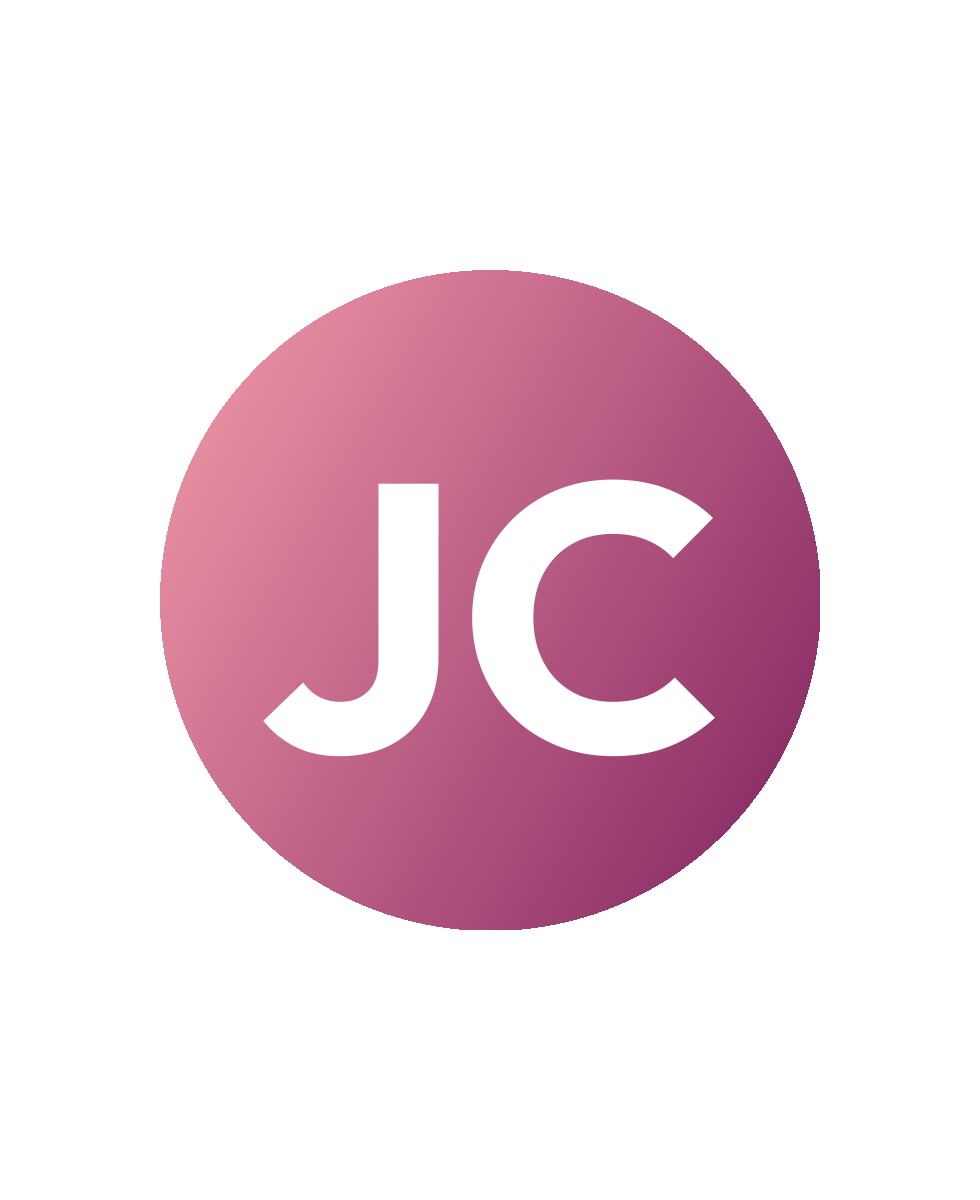
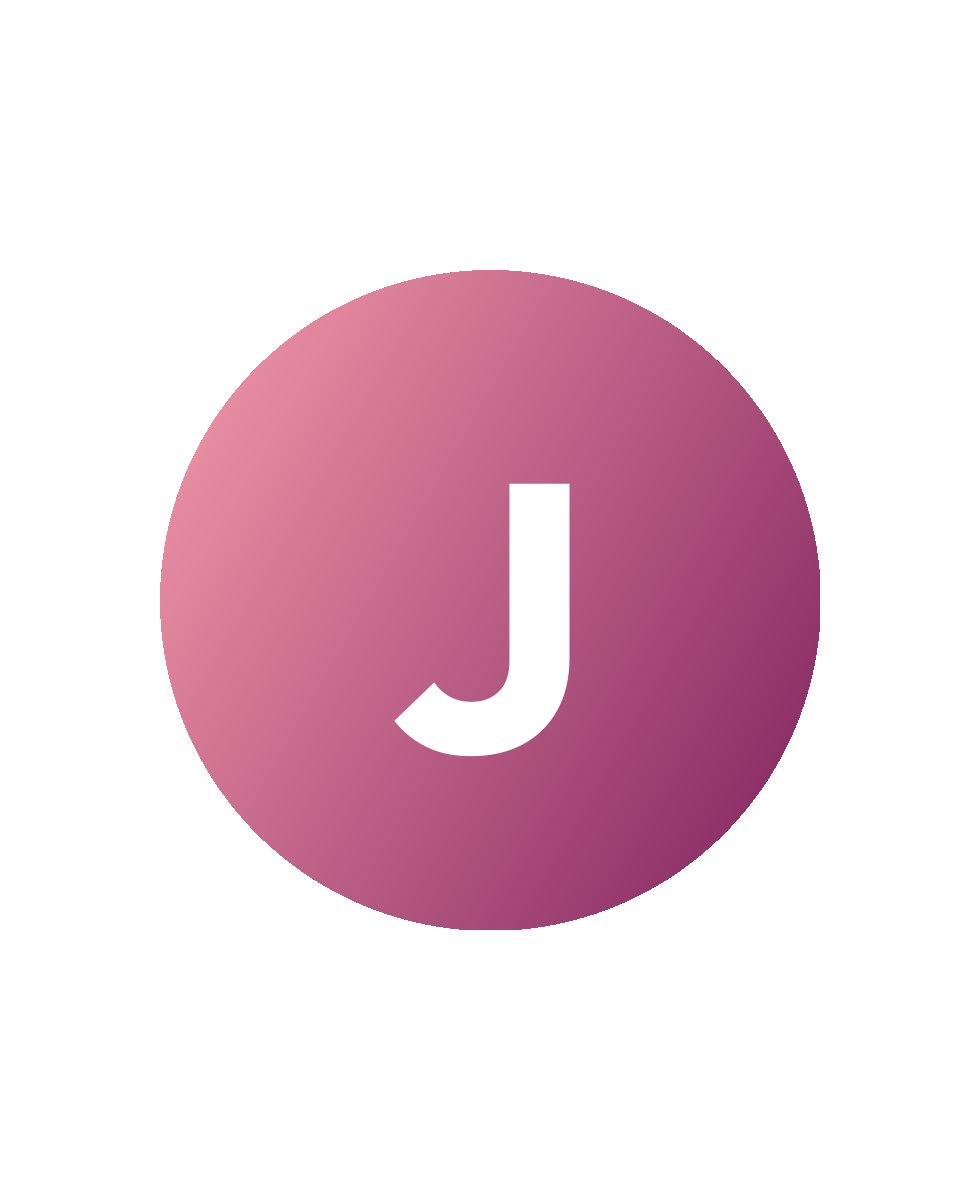
feat: refine team and footer and place video on about page

Changed region(s): [[0.2755, 0.4008, 0.7347, 0.6475], [0.5204, 0.4008, 0.7347, 0.4625]]

diff --git a/src/components/footer.html b/src/components/footer.html
@@ -7,6 +7,17 @@
         <p class="text-sm leading-relaxed text-slate-400">
           Kr8tig in Weert biedt een veilige haven voor ontwikkeling en groei.
         </p>
+        <div class="mt-5 grid grid-cols-[1fr_1fr_0.6fr] gap-2 w-full max-w-72" role="group" aria-label="Keurmerken en certificeringen">
+          <div class="footer-certification-logo rounded-lg p-2 h-20 flex items-center justify-center">
+            <img src="./assets/keurmerken/keurmerk 2.png" alt="SKJ – Kwaliteitsregister Jeugd" class="max-w-full max-h-full object-contain" loading="lazy" />
+          </div>
+          <div class="footer-certification-logo rounded-lg p-2 h-20 flex items-center justify-center">
+            <img src="./assets/keurmerken/keurmerk 3.png" alt="PSO – Prestatieladder Socialer Ondernemen" class="max-w-full max-h-full object-contain" loading="lazy" />
+          </div>
+          <div class="footer-certification-logo rounded-lg p-2 h-20 flex items-center justify-center">
+            <img src="./assets/keurmerken/keurmerk 1.jpg" alt="Kiwa ISO 9001 gecertificeerd" class="max-w-full max-h-full object-contain" loading="lazy" />
+          </div>
+        </div>
       </div>
       <div class="text-center">
         <h4 class="mb-3">
@@ -57,20 +68,6 @@
         </ul>
       </div>
     </div>
-    <section class="border-t border-slate-800 mt-12 pt-8" aria-labelledby="footer-keurmerken-heading">
-      <h2 id="footer-keurmerken-heading" class="text-white text-lg font-bold text-center mb-6">Keurmerken en certificeringen</h2>
-      <div class="flex flex-wrap items-center justify-center gap-4 sm:gap-6">
-        <div class="bg-white rounded-xl p-4 w-40 h-28 flex items-center justify-center">
-          <img src="./assets/keurmerken/keurmerk 2.png" alt="SKJ – Kwaliteitsregister Jeugd" class="max-w-full max-h-full object-contain" loading="lazy" />
-        </div>
-        <div class="bg-white rounded-xl p-4 w-40 h-28 flex items-center justify-center">
-          <img src="./assets/keurmerken/keurmerk 3.png" alt="PSO – Prestatieladder Socialer Ondernemen" class="max-w-full max-h-full object-contain" loading="lazy" />
-        </div>
-        <div class="bg-white rounded-xl p-4 w-40 h-28 flex items-center justify-center">
-          <img src="./assets/keurmerken/keurmerk 1.jpg" alt="Kiwa ISO 9001 gecertificeerd" class="max-w-full max-h-full object-contain" loading="lazy" />
-        </div>
-      </div>
-    </section>
     <div class="border-t border-slate-800 mt-12 pt-8 text-center text-sm text-slate-500">
       &copy; 2026 Kr8tig Weert. Alle rechten voorbehouden.
     </div>

diff --git a/over-ons.html b/over-ons.html
@@ -82,8 +82,8 @@
         </p>
       </div>
       
-      <section class="mt-16" aria-labelledby="toekomstbouwers-heading">
-        <h2 id="toekomstbouwers-heading" class="text-2xl sm:text-3xl font-bold text-slate-900 mb-6">Toekomstbouwers</h2>
+      <section class="mt-16" aria-labelledby="kr8tig-in-beeld-heading">
+        <h2 id="kr8tig-in-beeld-heading" class="text-2xl sm:text-3xl font-bold text-slate-900 mb-6 text-center">Kr8tig in beeld</h2>
         <!-- Vervang deze placeholder door de definitieve video zodra deze beschikbaar is. -->
         <div class="aspect-video rounded-2xl bg-primary/5 border border-primary/20 flex flex-col items-center justify-center text-center p-6 sm:p-10">
           <svg class="w-12 h-12 text-primary mb-4" aria-hidden="true" fill="none" stroke="currentColor" viewBox="0 0 24 24">
@@ -91,7 +91,7 @@
             <path d="m10 9 5 3-5 3V9Z" stroke-width="1.5" stroke-linejoin="round"></path>
           </svg>
           <p class="text-xl sm:text-2xl font-bold text-primary mb-2">Binnenkort te bekijken</p>
-          <p class="text-slate-600 max-w-md">Hier vind je binnenkort de video van Toekomstbouwers.</p>
+          <p class="text-slate-600 max-w-md">Hier zie je binnenkort hoe we bij Kr8tig samen werken aan ontwikkeling en groei.</p>
         </div>
       </section>
 

diff --git a/team.html b/team.html
@@ -270,12 +270,12 @@
           <!-- Team Member: Jeroen Coolen -->
           <div class="group bg-white rounded-2xl overflow-hidden flex flex-col relative card-primary">
             <div class="aspect-[4/5] overflow-hidden bg-slate-100 relative">
-              <img src="./assets/personeel/Jeroen-Coolen.png" alt="Initialen van Jeroen Coolen"
+              <img src="./assets/personeel/Jeroen-Coolen.png" alt="Initiaal van Jeroen"
                 class="w-full h-full object-cover group-hover:scale-105 transition-transform duration-1000"
                 loading="lazy">
             </div>
             <div class="p-6 flex-grow flex flex-col relative z-20">
-              <h3 class="text-xl font-extrabold text-slate-900 mb-1 tracking-wide group-hover:text-primary transition-colors duration-300">Jeroen Coolen</h3>
+              <h3 class="text-xl font-extrabold text-slate-900 mb-1 tracking-wide group-hover:text-primary transition-colors duration-300">Jeroen</h3>
               <p class="text-slate-500 font-medium text-sm">Intern begeleider</p>
             </div>
           </div>

diff --git a/src/style.css b/src/style.css
@@ -844,3 +844,13 @@ header.scrolled .theme-toggle { color: #334155; }
   border-right-color: var(--theme-border) !important;
   border-bottom-color: var(--theme-border) !important;
 }
+
+/* Keep certification logos on white in both themes. */
+.footer-certification-logo {
+  background-color: #fff;
+  min-width: 0;
+}
+
+.footer-certification-logo img {
+  transform: scale(1.1);
+}
